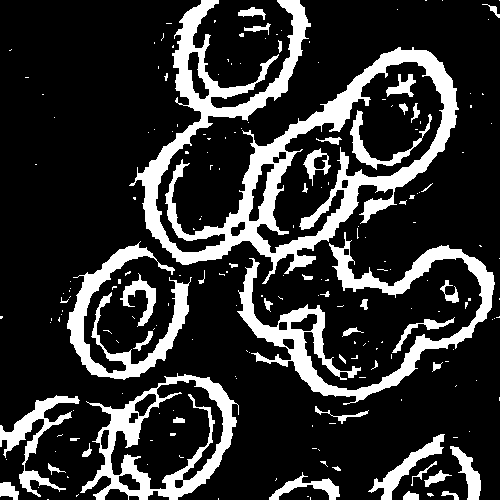
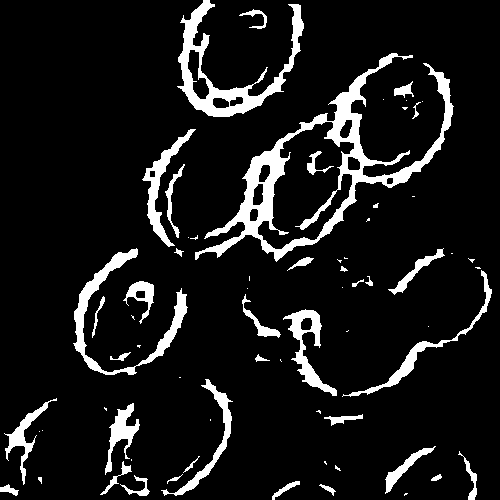
0706

diff --git a/test2.py b/test2.py
@@ -1,27 +1,46 @@
 import cv2
-import numpy as np
-from matplotlib import pyplot as plt
 
-img = cv2.imread('raw/cell (7).png')
+def main():
+    img = cv2.imread('face2/cell (7).png')
+    kernel = cv2.getStructuringElement(cv2.MORPH_RECT, (3,3))
+    ok = True
+    while ok:
 
-ok = True
-while ok:
+        gray = cv2.cvtColor(img, cv2.COLOR_BGR2GRAY)
+            
+        blurred = cv2.blur(gray,(5,5))
 
-    gray = cv2.cvtColor(img, cv2.COLOR_BGR2GRAY)
+        x = cv2.Sobel(blurred, cv2.CV_64F, 1, 0)
+        y = cv2.Sobel(blurred, cv2.CV_64F, 0, 1)
+        absX = cv2.convertScaleAbs(x)# 轉回uint8
+        absY = cv2.convertScaleAbs(y)
+        dst = cv2.addWeighted(absX, 0.5, absY, 0.5, 0)
+        dst1 = cv2.bilateralFilter(dst,5 ,50 ,20)
+
+        ret, th1 = cv2.threshold(dst1, 10, 255, cv2.THRESH_BINARY)
+        ret, th2 = cv2.threshold(dst1, 10, 255, cv2.THRESH_OTSU)
         
-    blurred = cv2.blur(gray,(5,5))
 
-    
+        erosion1 = cv2.erode(th1, kernel, iterations=2)
+        erosion2 = cv2.erode(th2, kernel, iterations=2)
 
-    ret,thresh1 = cv2.threshold(blurred, 127, 150, cv2.THRESH_BINARY)
-    ret,thresh2 = cv2.threshold(blurred, 127, 150, cv2.THRESH_BINARY_INV)
+        th3 = cv2.adaptiveThreshold(erosion1, 255, cv2.ADAPTIVE_THRESH_GAUSSIAN_C, cv2.THRESH_BINARY, 11, 0)
 
-    cv2.imshow("img", img)
-    cv2.imshow("thresh1", thresh1)
-    cv2.imshow("thresh2", thresh2)
+        cv2.imshow("img1", img)
+        cv2.imshow("dst1", dst1)
 
-    cv2.waitKey(0)
-    if cv2.waitKey(0) == 27:
-        ok = False
-        
-cv2.destroyAllWindows()
+        cv2.imshow("th1", th1)
+        cv2.imshow("th2", th2)
+
+        cv2.imshow("erosion1", erosion1)
+        cv2.imshow("erosion2", erosion2)
+
+        cv2.imshow("th3", th3)
+
+        cv2.waitKey(0)
+        if cv2.waitKey(0) == 27:
+            ok = False
+            
+    cv2.destroyAllWindows()
+
+main()

diff --git a/test3.py b/test3.py
@@ -1,0 +1,41 @@
+import cv2
+import numpy as np
+
+num = 10
+
+def main(img, str):
+  # 显示灰度图
+  img1 = cv2.imread(img,0)
+  # cv2.imshow("img1",img1)
+
+  # 自適應分割二值化分割
+  img2 = cv2.adaptiveThreshold(img1, 255, cv2.ADAPTIVE_THRESH_MEAN_C, cv2.THRESH_BINARY, 17, 4)
+  # cv2.imshow('img2', img2)
+
+  # 圖像反色
+  img3 = cv2.bitwise_not(img2)
+  # cv2.imshow("img3", img3)
+
+  # 图像扩展
+  img4 = cv2.copyMakeBorder(img3, 1, 1, 1, 1, cv2.BORDER_REFLECT)
+  # cv2.imshow("img4", img4)
+
+  contours, hierarchy = cv2.findContours(img4, cv2.RETR_EXTERNAL, cv2.CHAIN_APPROX_NONE)
+
+  # 刪除小面積
+  img5 = img4
+  for i in range(len(contours)):
+      area = cv2.contourArea(contours[i])
+      if (area < 60) | (area > 10000):
+          cv2.drawContours(img5, [contours[i]], 0, 0, -1)
+  # cv2.imshow("img5", img5)
+
+  name = "out/output{}.png".format(str)
+  cv2.imwrite(name, img5)
+
+  # cv2.waitKey(0)
+
+for i in range(num):
+  path = "face2/cell ({}).png".format(str(i+1))
+  print(path)
+  main(path, str(i+1))  

diff --git a/face1.py b/face1.py
@@ -9,7 +9,6 @@ while ok:
     blurred = cv2.blur(gray,(5,5))
     
     erosion1 = cv2.erode(blurred , kernel, iterations=2)
-
     
     x = cv2.Sobel(blurred, cv2.CV_64F, 1, 0)
     y = cv2.Sobel(blurred, cv2.CV_64F, 0, 1)
@@ -26,7 +25,7 @@ while ok:
     inv = 255-thr1
 
     cv2.imshow("otsu2", thr1)
-    cv2.imshow("sobel1", dst1)
+    cv2.imshow("dst1", dst1)
     cv2.imshow('erosion',erosion)
     cv2.imshow('closing', closing)
 

diff --git a/raw1.py b/raw1.py
@@ -28,7 +28,7 @@ while ok:
 
     # cv2.imshow("otsu2", thr1)
     # cv2.imshow("sobel1", dst1)
-    # cv2.imshow('erosion',erosion)
+    cv2.imshow('erosion',erosion)
     # cv2.imshow('closing', closing)
 
     # cv2.imwrite('erosion.png', erosion)
